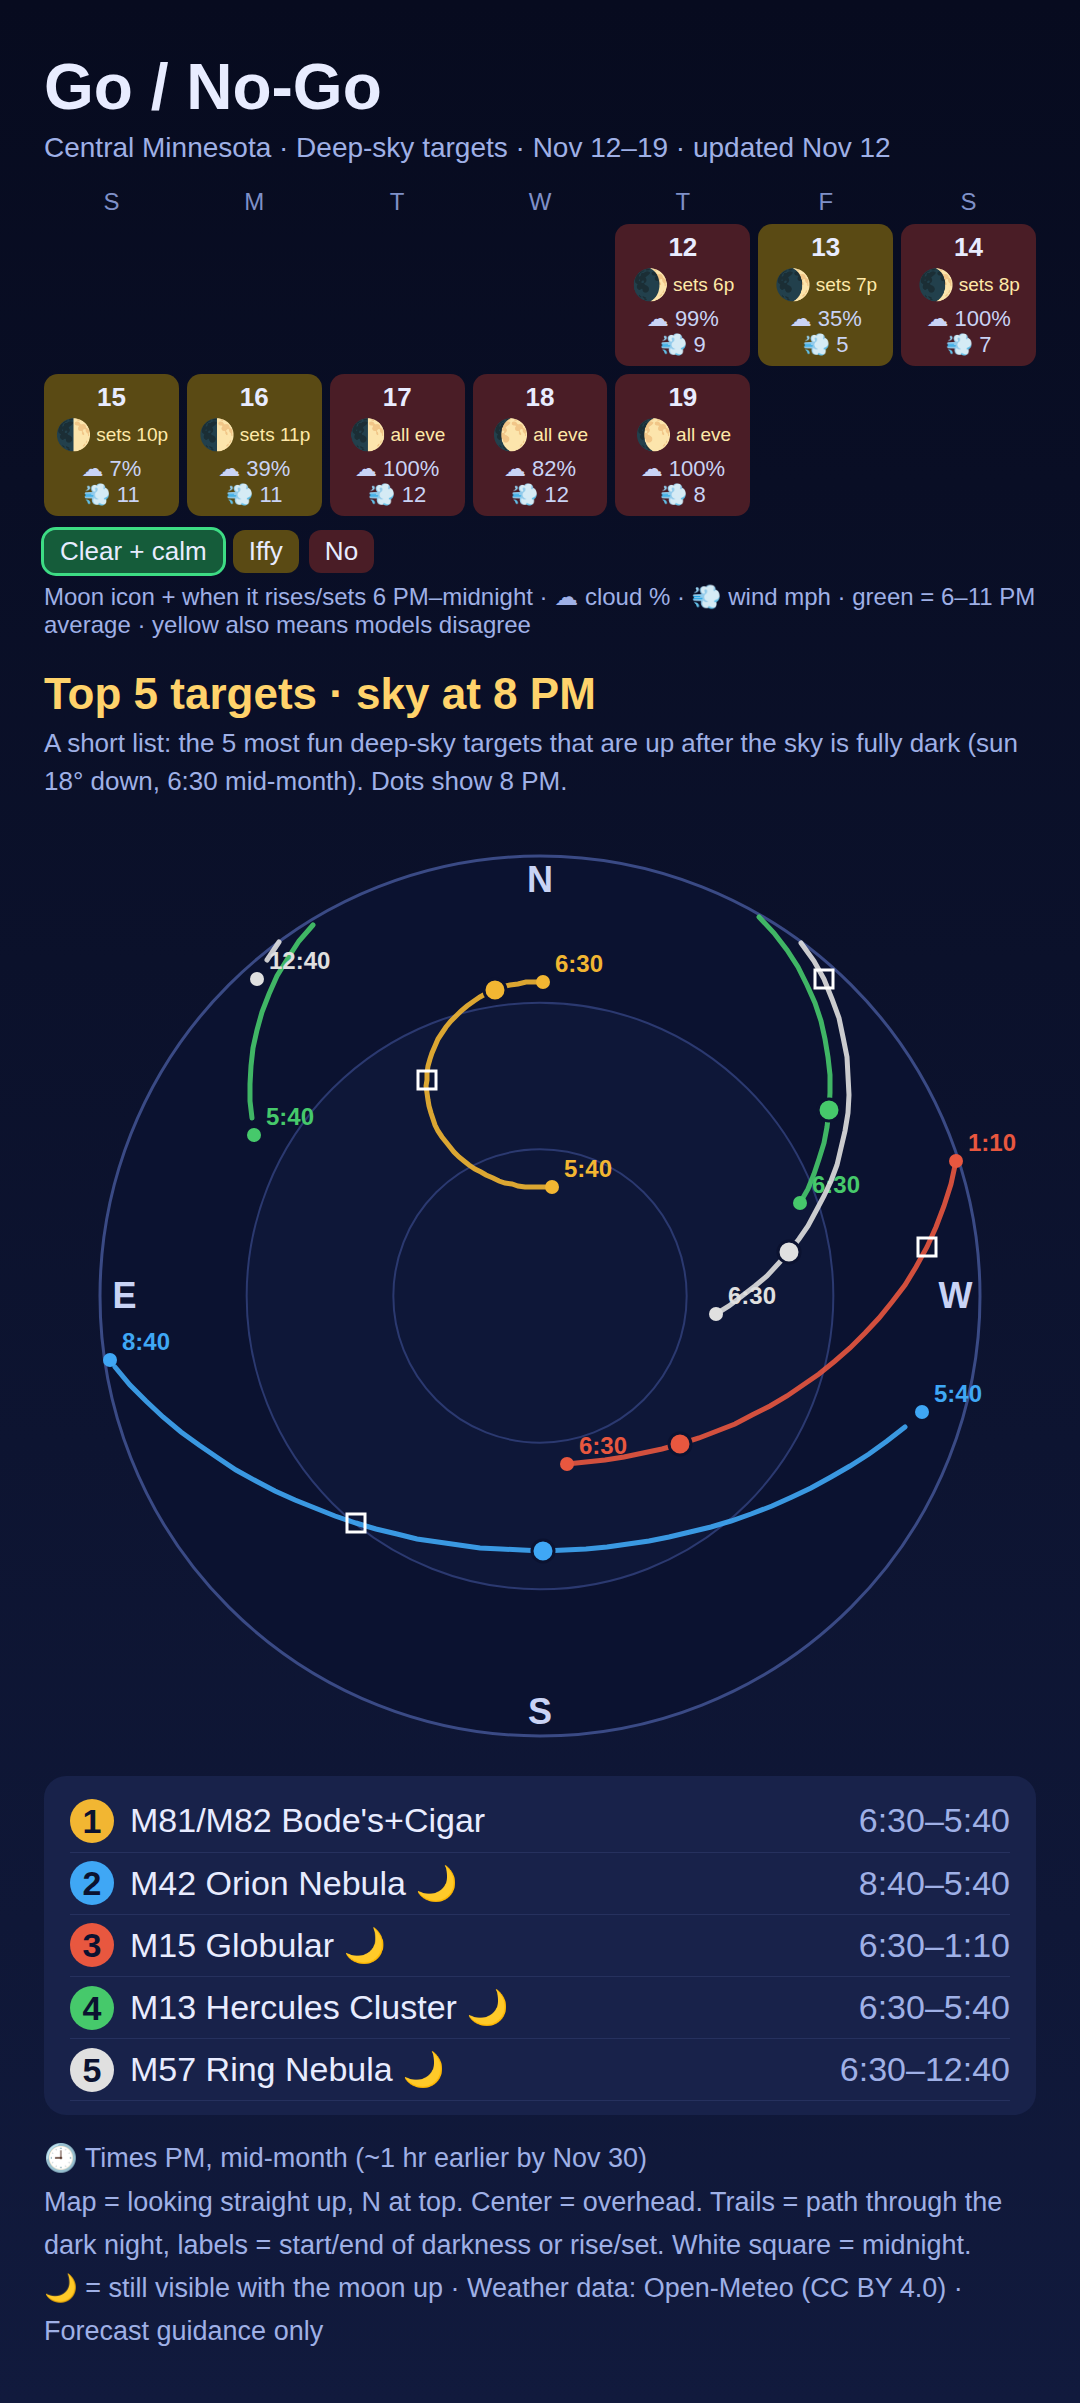
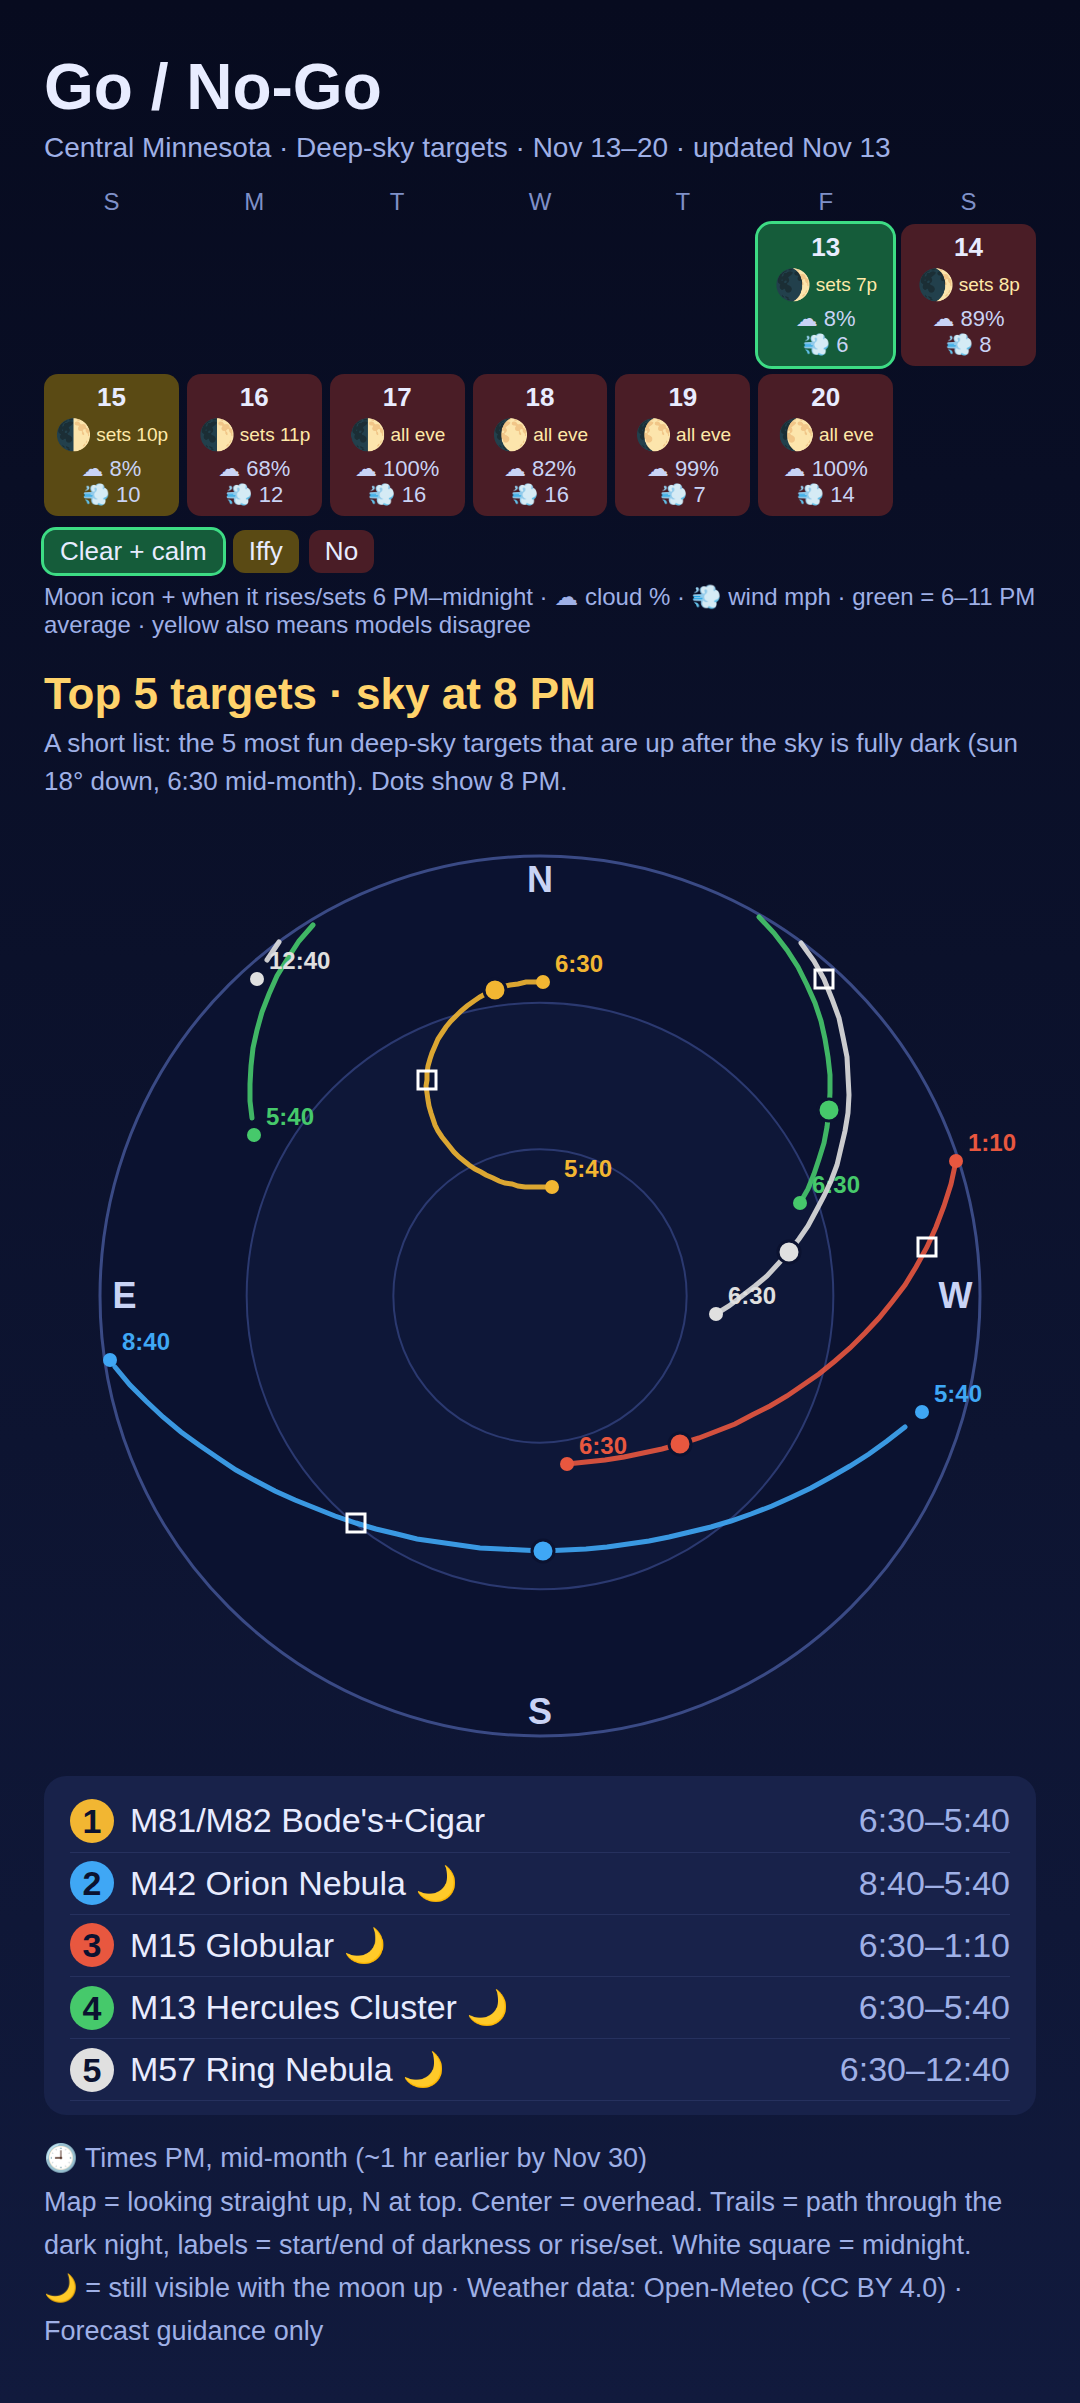
Update stargazing forecast (Nov 13)

diff --git a/_includes/forecast_status.html b/_includes/forecast_status.html
@@ -1,2 +1,2 @@
-<p class="notice--info"><strong>Forecast updated Nov 12:</strong> Next good night: Fri Nov 13 (models disagree): M15 Globular, 7:00 pm-10:00 pm (clear 3.0h, longest 7:00 pm-8:00 pm, low 30F)</p>
+<p class="notice--info"><strong>Forecast updated Nov 13:</strong> Next good night: Fri Nov 13: M15 Globular, 6:40 pm-10:20 pm (clear 5.3h, longest 6:40 pm-12:00 am, low 23F)</p>
 <p class="small">Weather data: <a href="https://open-meteo.com/">Open-Meteo</a> (CC BY 4.0). Forecast guidance only — check the sky before heading out.</p>
